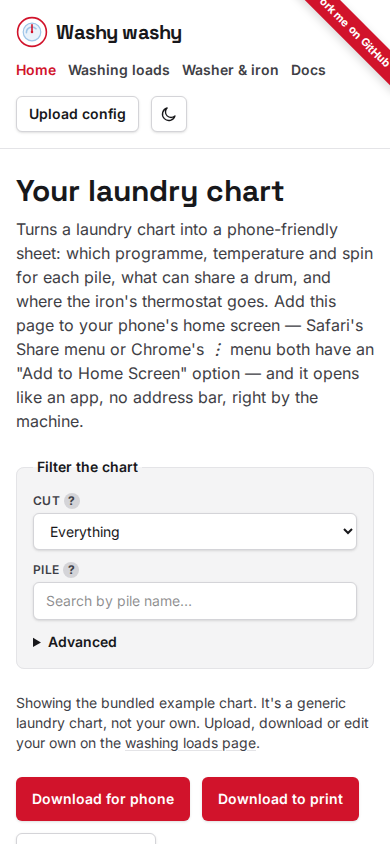
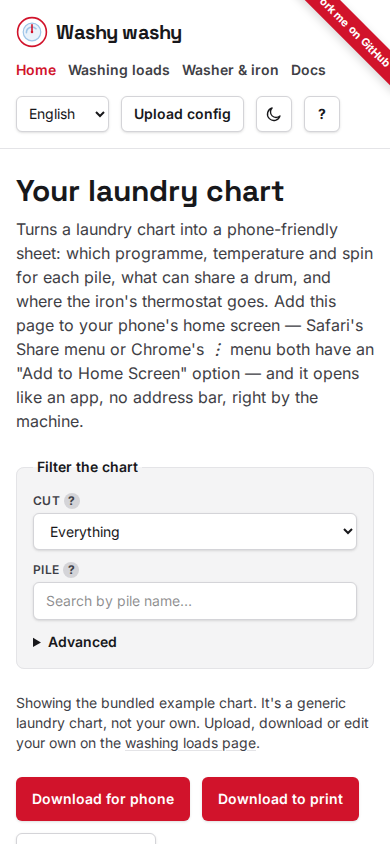
feat: capture docs screenshots per locale, showing the translated UI
Extends scripts/capture-docs-media.ts to shoot each screenshot once per
locale Starlight has docs for (en, ja, de, es, fr), not just English —
using the same translator() dictionary the app itself uses so the
script's own locale-aware actions (opening "Advanced", finding the
"Iron"/translated-equivalent heading) target the right elements in each
language. Locale variants land under public/docs/media/{locale}/,
alongside the existing unprefixed English set; each translated docs page
now points at its own locale's images instead of the English ones.

Re-running the capture also refreshed the English screenshots — they now
show the language switcher that's new since they were last taken.

Changed region(s): [[0.0615, 0.1232, 0.5846, 0.154], [0.8, 0.1232, 0.8308, 0.154], [0.6769, 0.1232, 0.7077, 0.154]]

diff --git a/scripts/capture-docs-media.ts b/scripts/capture-docs-media.ts
@@ -7,6 +7,14 @@
  * result the same way `og-image.png` and `favicon.svg` are hand-maintained
  * static assets rather than generated per build.
  *
+ * Also captures one set per locale Starlight actually has docs for (ja, de,
+ * es, fr — jive excluded, same reason its Docs nav link falls back to
+ * English, see astro.config.mjs and locales.ts's DOCS_LOCALES) — #144's
+ * "screenshots should reflect the language" — under
+ * public/docs/media/{locale}/, alongside the existing unprefixed English
+ * set at public/docs/media/ (left exactly where the English docs already
+ * reference them).
+ *
  * Builds and serves via `scripts/serve-dist.ts`, the same static file server
  * `playwright.config.ts` uses for the e2e suite — `astro preview`/`astro
  * dev` both daemonize and exit immediately, which reads as a crash to
@@ -14,6 +22,8 @@
  */
 import { mkdir } from "node:fs/promises";
 import { type Browser, chromium, type Page } from "@playwright/test";
+import { DOCS_LOCALES, type Locale, relativeLocaleUrl } from "../src/i18n/locales";
+import { translator } from "../src/i18n/ui";
 
 const DIST = new URL("../dist/", import.meta.url);
 const MEDIA_DIR = new URL("../public/docs/media/", import.meta.url);
@@ -40,10 +50,12 @@ async function waitForHydration(page: Page) {
 }
 
 interface Shot {
+  /** Locale-unprefixed — resolved per locale via relativeLocaleUrl. */
   path: string;
   viewport: { width: number; height: number };
   file: string;
-  act?: (page: Page) => Promise<void>;
+  /** `t` is this shot's locale's own translator, for locale-aware selectors (button/heading text). */
+  act?: (page: Page, t: ReturnType<typeof translator>) => Promise<void>;
 }
 
 const PHONE = { width: 390, height: 844 };
@@ -55,18 +67,20 @@ const SHOTS: Shot[] = [
     path: "/",
     viewport: PHONE,
     file: "sheet-filters.png",
-    act: async (page) => {
+    act: async (page, t) => {
       await page.selectOption("#filter-cut", "wash");
-      await page.locator("summary", { hasText: "Advanced" }).click();
+      await page.locator("summary", { hasText: t("sheetViewer.advanced") }).click();
     },
   },
   {
     path: "/",
     viewport: PHONE,
     file: "sheet-pdf-download.png",
-    act: async (page) => {
+    act: async (page, t) => {
       const card = page.locator("article").first();
-      await card.getByRole("button", { name: /Download/ }).scrollIntoViewIfNeeded();
+      await card
+        .getByRole("button", { name: new RegExp(t("sheet.download")) })
+        .scrollIntoViewIfNeeded();
     },
   },
   { path: "/config", viewport: DESKTOP, file: "config-chart-cards.png" },
@@ -74,24 +88,34 @@ const SHOTS: Shot[] = [
     path: "/config/machine",
     viewport: DESKTOP,
     file: "machine-editor.png",
-    act: async (page) => {
+    act: async (page, t) => {
       // exact: true — the page's own <h1> ("Washer & iron settings", #132)
-      // contains "iron" too, and a substring match on "Iron" alone hits
-      // both, ambiguously.
-      await page.getByRole("heading", { name: "Iron", exact: true }).scrollIntoViewIfNeeded();
+      // contains "iron" too in some locales, and a substring match on the
+      // heading text alone risks hitting both, ambiguously.
+      await page
+        .getByRole("heading", { name: t("common.iron"), exact: true })
+        .scrollIntoViewIfNeeded();
     },
   },
 ];
 
 const COLOR_SCHEMES = ["light", "dark"] as const;
 
-async function shoot(browser: Browser, shot: Shot, colorScheme: (typeof COLOR_SCHEMES)[number]) {
+async function shoot(
+  browser: Browser,
+  shot: Shot,
+  colorScheme: (typeof COLOR_SCHEMES)[number],
+  locale: Locale,
+) {
   const page = await browser.newPage({ viewport: shot.viewport, colorScheme });
-  await page.goto(`${BASE_URL}${shot.path}`);
+  const t = translator(locale);
+  await page.goto(`${BASE_URL}${relativeLocaleUrl(locale, shot.path)}`);
   await waitForHydration(page);
-  if (shot.act) await shot.act(page);
+  if (shot.act) await shot.act(page, t);
   const stem = shot.file.replace(/\.png$/, "");
-  await page.screenshot({ path: new URL(`${stem}-${colorScheme}.png`, MEDIA_DIR).pathname });
+  const dir = locale === "en" ? MEDIA_DIR : new URL(`${locale}/`, MEDIA_DIR);
+  await mkdir(dir, { recursive: true });
+  await page.screenshot({ path: new URL(`${stem}-${colorScheme}.png`, dir).pathname });
   await page.close();
 }
 
@@ -113,9 +137,12 @@ async function main() {
 
     const browser = await chromium.launch();
     try {
-      for (const shot of SHOTS) {
-        for (const colorScheme of COLOR_SCHEMES) {
-          await shoot(browser, shot, colorScheme);
+      const locales: Locale[] = ["en", ...DOCS_LOCALES.filter((locale) => locale !== "en")];
+      for (const locale of locales) {
+        for (const shot of SHOTS) {
+          for (const colorScheme of COLOR_SCHEMES) {
+            await shoot(browser, shot, colorScheme, locale);
+          }
         }
       }
     } finally {

diff --git a/src/content/docs/fr/docs/web-app.md b/src/content/docs/fr/docs/web-app.md
@@ -35,8 +35,8 @@ JSON que celle que tu importerais. C'est l'aller-retour pour la modifier
 ailleurs sur une copie, ou pour transmettre ta configuration à quelqu'un
 d'autre.
 
-<img class="theme-shot" data-variant="light" src="/docs/media/config-chart-cards-light.png" alt="La page de configuration : résumé de la machine en lecture seule, contrôles d'import/export, et chaque tas sous forme de carte modifiable" />
-<img class="theme-shot" data-variant="dark" src="/docs/media/config-chart-cards-dark.png" alt="La page de configuration : résumé de la machine en lecture seule, contrôles d'import/export, et chaque tas sous forme de carte modifiable" />
+<img class="theme-shot" data-variant="light" src="/docs/media/fr/config-chart-cards-light.png" alt="La page de configuration : résumé de la machine en lecture seule, contrôles d'import/export, et chaque tas sous forme de carte modifiable" />
+<img class="theme-shot" data-variant="dark" src="/docs/media/fr/config-chart-cards-dark.png" alt="La page de configuration : résumé de la machine en lecture seule, contrôles d'import/export, et chaque tas sous forme de carte modifiable" />
 
 ## Bascule de thème
 
@@ -93,8 +93,8 @@ paramètres de requête, et une URL qui en porte l'emporte toujours sur ce qui
 avait été enregistré lors d'une visite précédente — voir Partager ci-dessous
 pour le bouton qui transmet cette URL.
 
-<img class="theme-shot" data-variant="light" src="/docs/media/sheet-filters-light.png" alt="Le volet Avancé ouvert, avec lavage seulement sélectionné" />
-<img class="theme-shot" data-variant="dark" src="/docs/media/sheet-filters-dark.png" alt="Le volet Avancé ouvert, avec lavage seulement sélectionné" />
+<img class="theme-shot" data-variant="light" src="/docs/media/fr/sheet-filters-light.png" alt="Le volet Avancé ouvert, avec lavage seulement sélectionné" />
+<img class="theme-shot" data-variant="dark" src="/docs/media/fr/sheet-filters-dark.png" alt="Le volet Avancé ouvert, avec lavage seulement sélectionné" />
 
 ## Partager
 
@@ -151,8 +151,8 @@ imprimée dessine toujours tout le tableau de référence plus la carte de
 chaque tas, donc il n'y a aucun moyen de la limiter à un seul tas comme le
 permet le format téléphone.
 
-<img class="theme-shot" data-variant="light" src="/docs/media/sheet-pdf-download-light.png" alt="Les boutons Télécharger et Copier le lien propres à une seule carte" />
-<img class="theme-shot" data-variant="dark" src="/docs/media/sheet-pdf-download-dark.png" alt="Les boutons Télécharger et Copier le lien propres à une seule carte" />
+<img class="theme-shot" data-variant="light" src="/docs/media/fr/sheet-pdf-download-light.png" alt="Les boutons Télécharger et Copier le lien propres à une seule carte" />
+<img class="theme-shot" data-variant="dark" src="/docs/media/fr/sheet-pdf-download-dark.png" alt="Les boutons Télécharger et Copier le lien propres à une seule carte" />
 
 **Copier le lien**, à côté du bouton de téléchargement d'une carte, met
 l'URL de cette vue filtrée dans ton presse-papiers — le même repli vers le

diff --git a/src/content/docs/de/docs/web-app.md b/src/content/docs/de/docs/web-app.md
@@ -37,8 +37,8 @@ ausgibt, die du hochladen würdest. Das ist der Rundweg, um anderswo eine
 Kopie zu bearbeiten oder deine Konfiguration an jemand anderen
 weiterzugeben.
 
-<img class="theme-shot" data-variant="light" src="/docs/media/config-chart-cards-light.png" alt="Die Konfigurationsseite: schreibgeschützte Maschinenübersicht, Upload/Download-Steuerelemente und jeder Stapel als bearbeitbare Karte" />
-<img class="theme-shot" data-variant="dark" src="/docs/media/config-chart-cards-dark.png" alt="Die Konfigurationsseite: schreibgeschützte Maschinenübersicht, Upload/Download-Steuerelemente und jeder Stapel als bearbeitbare Karte" />
+<img class="theme-shot" data-variant="light" src="/docs/media/de/config-chart-cards-light.png" alt="Die Konfigurationsseite: schreibgeschützte Maschinenübersicht, Upload/Download-Steuerelemente und jeder Stapel als bearbeitbare Karte" />
+<img class="theme-shot" data-variant="dark" src="/docs/media/de/config-chart-cards-dark.png" alt="Die Konfigurationsseite: schreibgeschützte Maschinenübersicht, Upload/Download-Steuerelemente und jeder Stapel als bearbeitbare Karte" />
 
 ## Theme-Umschalter
 
@@ -97,8 +97,8 @@ Query-Parameter mit, und eine URL, die einen davon enthält, gewinnt
 uneingeschränkt gegenüber allem, was von einem früheren Besuch gespeichert
 war — siehe „Teilen" weiter unten für den Button, der diese URL weitergibt.
 
-<img class="theme-shot" data-variant="light" src="/docs/media/sheet-filters-light.png" alt="Die geöffneten Advanced-Filter mit ausgewählter Option 'nur Waschen'" />
-<img class="theme-shot" data-variant="dark" src="/docs/media/sheet-filters-dark.png" alt="Die geöffneten Advanced-Filter mit ausgewählter Option 'nur Waschen'" />
+<img class="theme-shot" data-variant="light" src="/docs/media/de/sheet-filters-light.png" alt="Die geöffneten Advanced-Filter mit ausgewählter Option 'nur Waschen'" />
+<img class="theme-shot" data-variant="dark" src="/docs/media/de/sheet-filters-dark.png" alt="Die geöffneten Advanced-Filter mit ausgewählter Option 'nur Waschen'" />
 
 ## Teilen
 
@@ -156,8 +156,8 @@ zeichnet immer die gesamte Referenztabelle plus die Karte jedes Stapels,
 sodass es sich nicht wie beim Handy-Format auf nur einen Stapel eingrenzen
 lässt.
 
-<img class="theme-shot" data-variant="light" src="/docs/media/sheet-pdf-download-light.png" alt="Die eigenen Download- und Copy-link-Buttons einer einzelnen Karte" />
-<img class="theme-shot" data-variant="dark" src="/docs/media/sheet-pdf-download-dark.png" alt="Die eigenen Download- und Copy-link-Buttons einer einzelnen Karte" />
+<img class="theme-shot" data-variant="light" src="/docs/media/de/sheet-pdf-download-light.png" alt="Die eigenen Download- und Copy-link-Buttons einer einzelnen Karte" />
+<img class="theme-shot" data-variant="dark" src="/docs/media/de/sheet-pdf-download-dark.png" alt="Die eigenen Download- und Copy-link-Buttons einer einzelnen Karte" />
 
 **Copy link**, neben dem Download-Button einer Karte, legt die URL dieser
 gefilterten Ansicht in deine Zwischenablage — derselbe

diff --git a/src/content/docs/es/docs/web-app.md b/src/content/docs/es/docs/web-app.md
@@ -35,8 +35,8 @@ mismo formato JSON que subirías. Ese es el recorrido de ida y vuelta para
 editar una copia en otro sitio, o para pasarle tu configuración a otra
 persona.
 
-<img class="theme-shot" data-variant="light" src="/docs/media/config-chart-cards-light.png" alt="La página de configuración: resumen de máquina de solo lectura, controles de subida/descarga, y cada montón como una tarjeta editable" />
-<img class="theme-shot" data-variant="dark" src="/docs/media/config-chart-cards-dark.png" alt="La página de configuración: resumen de máquina de solo lectura, controles de subida/descarga, y cada montón como una tarjeta editable" />
+<img class="theme-shot" data-variant="light" src="/docs/media/es/config-chart-cards-light.png" alt="La página de configuración: resumen de máquina de solo lectura, controles de subida/descarga, y cada montón como una tarjeta editable" />
+<img class="theme-shot" data-variant="dark" src="/docs/media/es/config-chart-cards-dark.png" alt="La página de configuración: resumen de máquina de solo lectura, controles de subida/descarga, y cada montón como una tarjeta editable" />
 
 ## Alternar tema
 
@@ -93,8 +93,8 @@ direcciones lleva `cut`, `pile`, `program`, `temperature`, `spin` y
 ellos prevalece siempre sobre lo que se guardó de una visita anterior — ver
 Compartir más abajo para el botón que entrega esa URL.
 
-<img class="theme-shot" data-variant="light" src="/docs/media/sheet-filters-light.png" alt="Los filtros Advanced abiertos, con solo lavado seleccionado" />
-<img class="theme-shot" data-variant="dark" src="/docs/media/sheet-filters-dark.png" alt="Los filtros Advanced abiertos, con solo lavado seleccionado" />
+<img class="theme-shot" data-variant="light" src="/docs/media/es/sheet-filters-light.png" alt="Los filtros Advanced abiertos, con solo lavado seleccionado" />
+<img class="theme-shot" data-variant="dark" src="/docs/media/es/sheet-filters-dark.png" alt="Los filtros Advanced abiertos, con solo lavado seleccionado" />
 
 ## Compartir
 
@@ -150,8 +150,8 @@ dibuja toda la tabla de referencia más la tarjeta de cada montón, así que
 no hay forma de acotarlo a un solo montón como sí puede hacer el formato
 móvil.
 
-<img class="theme-shot" data-variant="light" src="/docs/media/sheet-pdf-download-light.png" alt="Los botones propios de Download y Copy link de una sola tarjeta" />
-<img class="theme-shot" data-variant="dark" src="/docs/media/sheet-pdf-download-dark.png" alt="Los botones propios de Download y Copy link de una sola tarjeta" />
+<img class="theme-shot" data-variant="light" src="/docs/media/es/sheet-pdf-download-light.png" alt="Los botones propios de Download y Copy link de una sola tarjeta" />
+<img class="theme-shot" data-variant="dark" src="/docs/media/es/sheet-pdf-download-dark.png" alt="Los botones propios de Download y Copy link de una sola tarjeta" />
 
 **Copy link**, junto al botón de descarga de una tarjeta, pone la URL de
 esa vista filtrada en tu portapapeles — el mismo recurso de portapapeles

diff --git a/src/content/docs/fr/docs/index.md b/src/content/docs/fr/docs/index.md
@@ -10,8 +10,8 @@ séparé lit la même grille et la même description de machine et les rend en
 PDF à la place — ce site ne couvre que l'application web ; le CLI a son
 propre README pour l'installer et le lancer.
 
-<img class="theme-shot" data-variant="light" src="/docs/media/sheet-overview-light.png" alt="La page d'accueil : une grille de lavage avec des filtres de coupe et de tas, et un bouton pour télécharger toute la feuille en PDF" />
-<img class="theme-shot" data-variant="dark" src="/docs/media/sheet-overview-dark.png" alt="La page d'accueil : une grille de lavage avec des filtres de coupe et de tas, et un bouton pour télécharger toute la feuille en PDF" />
+<img class="theme-shot" data-variant="light" src="/docs/media/fr/sheet-overview-light.png" alt="La page d'accueil : une grille de lavage avec des filtres de coupe et de tas, et un bouton pour télécharger toute la feuille en PDF" />
+<img class="theme-shot" data-variant="dark" src="/docs/media/fr/sheet-overview-dark.png" alt="La page d'accueil : une grille de lavage avec des filtres de coupe et de tas, et un bouton pour télécharger toute la feuille en PDF" />
 
 Commence par celle qui correspond à ce que tu veux faire :
 

diff --git a/src/content/docs/de/docs/index.md b/src/content/docs/de/docs/index.md
@@ -11,8 +11,8 @@ und Maschinenbeschreibung und rendert sie stattdessen als PDF — diese Seite
 behandelt nur die Web-App; das CLI hat sein eigenes README für Installation
 und Nutzung.
 
-<img class="theme-shot" data-variant="light" src="/docs/media/sheet-overview-light.png" alt="Die Startseite: eine Wäschetabelle mit Filtern nach Ansicht und Stapel und einem Button zum Herunterladen des gesamten Blatts als PDF" />
-<img class="theme-shot" data-variant="dark" src="/docs/media/sheet-overview-dark.png" alt="Die Startseite: eine Wäschetabelle mit Filtern nach Ansicht und Stapel und einem Button zum Herunterladen des gesamten Blatts als PDF" />
+<img class="theme-shot" data-variant="light" src="/docs/media/de/sheet-overview-light.png" alt="Die Startseite: eine Wäschetabelle mit Filtern nach Ansicht und Stapel und einem Button zum Herunterladen des gesamten Blatts als PDF" />
+<img class="theme-shot" data-variant="dark" src="/docs/media/de/sheet-overview-dark.png" alt="Die Startseite: eine Wäschetabelle mit Filtern nach Ansicht und Stapel und einem Button zum Herunterladen des gesamten Blatts als PDF" />
 
 Fang mit dem an, was zu deinem Vorhaben passt:
 

diff --git a/src/content/docs/es/docs/index.md b/src/content/docs/es/docs/index.md
@@ -10,8 +10,8 @@ aparte lee la misma guía y descripción de máquina, y la convierte en un PDF
 en su lugar — este sitio cubre solo la aplicación web; la CLI tiene su
 propio README para instalarla y ejecutarla.
 
-<img class="theme-shot" data-variant="light" src="/docs/media/sheet-overview-light.png" alt="La página principal: una guía de lavado con filtros de corte y montón, y un botón para descargar toda la hoja como PDF" />
-<img class="theme-shot" data-variant="dark" src="/docs/media/sheet-overview-dark.png" alt="La página principal: una guía de lavado con filtros de corte y montón, y un botón para descargar toda la hoja como PDF" />
+<img class="theme-shot" data-variant="light" src="/docs/media/es/sheet-overview-light.png" alt="La página principal: una guía de lavado con filtros de corte y montón, y un botón para descargar toda la hoja como PDF" />
+<img class="theme-shot" data-variant="dark" src="/docs/media/es/sheet-overview-dark.png" alt="La página principal: una guía de lavado con filtros de corte y montón, y un botón para descargar toda la hoja como PDF" />
 
 Empieza por lo que se ajuste a lo que quieres hacer:
 

diff --git a/src/content/docs/es/docs/chart-and-machine.md b/src/content/docs/es/docs/chart-and-machine.md
@@ -63,8 +63,8 @@ El propio editor [`/config/machine`](https://washy-washy.ryankes.eu/config/machi
 de la aplicación web escribe esta misma forma — reordenar ahí la lista de
 programas hace exactamente lo mismo que reordenar el array JSON:
 
-<img class="theme-shot" data-variant="light" src="/docs/media/machine-editor-light.png" alt="La tabla de velocidades de centrifugado, botones y ajustes de plancha del editor de máquina" />
-<img class="theme-shot" data-variant="dark" src="/docs/media/machine-editor-dark.png" alt="La tabla de velocidades de centrifugado, botones y ajustes de plancha del editor de máquina" />
+<img class="theme-shot" data-variant="light" src="/docs/media/es/machine-editor-light.png" alt="La tabla de velocidades de centrifugado, botones y ajustes de plancha del editor de máquina" />
+<img class="theme-shot" data-variant="dark" src="/docs/media/es/machine-editor-dark.png" alt="La tabla de velocidades de centrifugado, botones y ajustes de plancha del editor de máquina" />
 
 ```json
 {

diff --git a/src/content/docs/de/docs/chart-and-machine.md b/src/content/docs/de/docs/chart-and-machine.md
@@ -65,8 +65,8 @@ Der [`/config/machine`](https://washy-washy.ryankes.eu/config/machine/)-Editor
 der Web-App selbst schreibt genau diese Form — die Programmliste dort
 umzusortieren bewirkt genau dasselbe wie das Umsortieren des JSON-Arrays:
 
-<img class="theme-shot" data-variant="light" src="/docs/media/machine-editor-light.png" alt="Die Tabelle mit Schleuderzahlen, Tasten und Bügeleinstellungen des Maschinen-Editors" />
-<img class="theme-shot" data-variant="dark" src="/docs/media/machine-editor-dark.png" alt="Die Tabelle mit Schleuderzahlen, Tasten und Bügeleinstellungen des Maschinen-Editors" />
+<img class="theme-shot" data-variant="light" src="/docs/media/de/machine-editor-light.png" alt="Die Tabelle mit Schleuderzahlen, Tasten und Bügeleinstellungen des Maschinen-Editors" />
+<img class="theme-shot" data-variant="dark" src="/docs/media/de/machine-editor-dark.png" alt="Die Tabelle mit Schleuderzahlen, Tasten und Bügeleinstellungen des Maschinen-Editors" />
 
 ```json
 {
